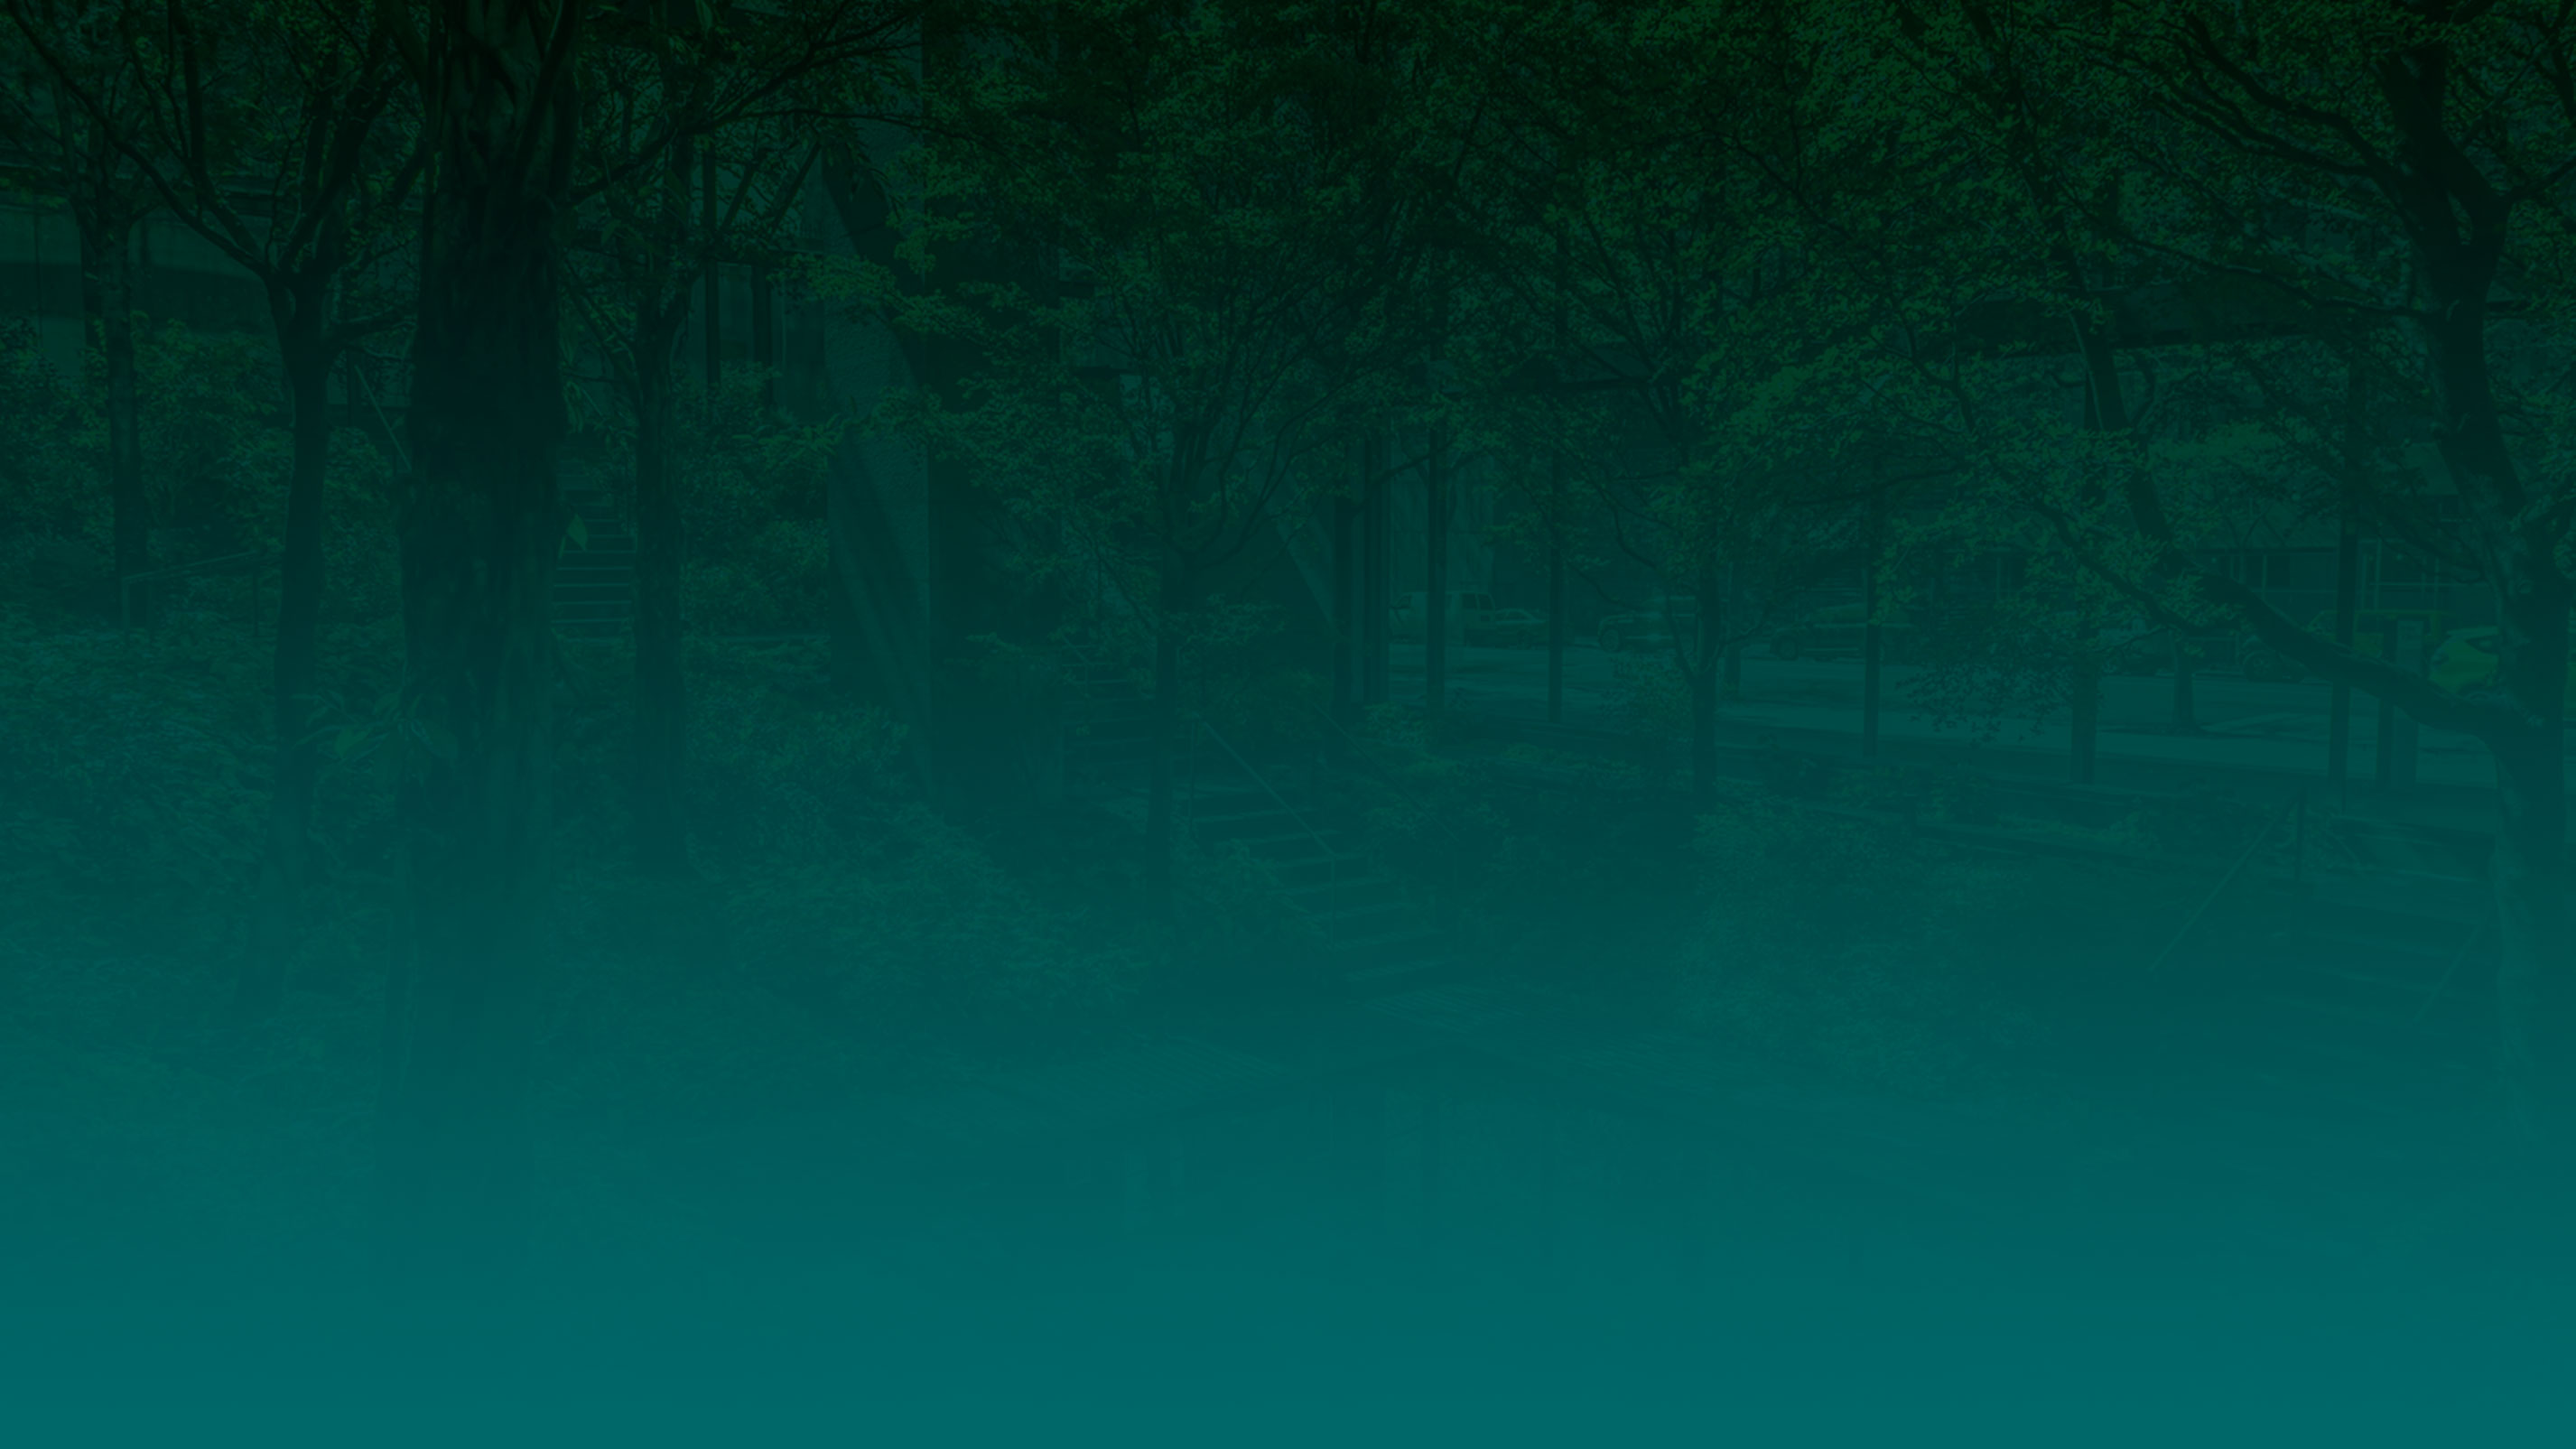
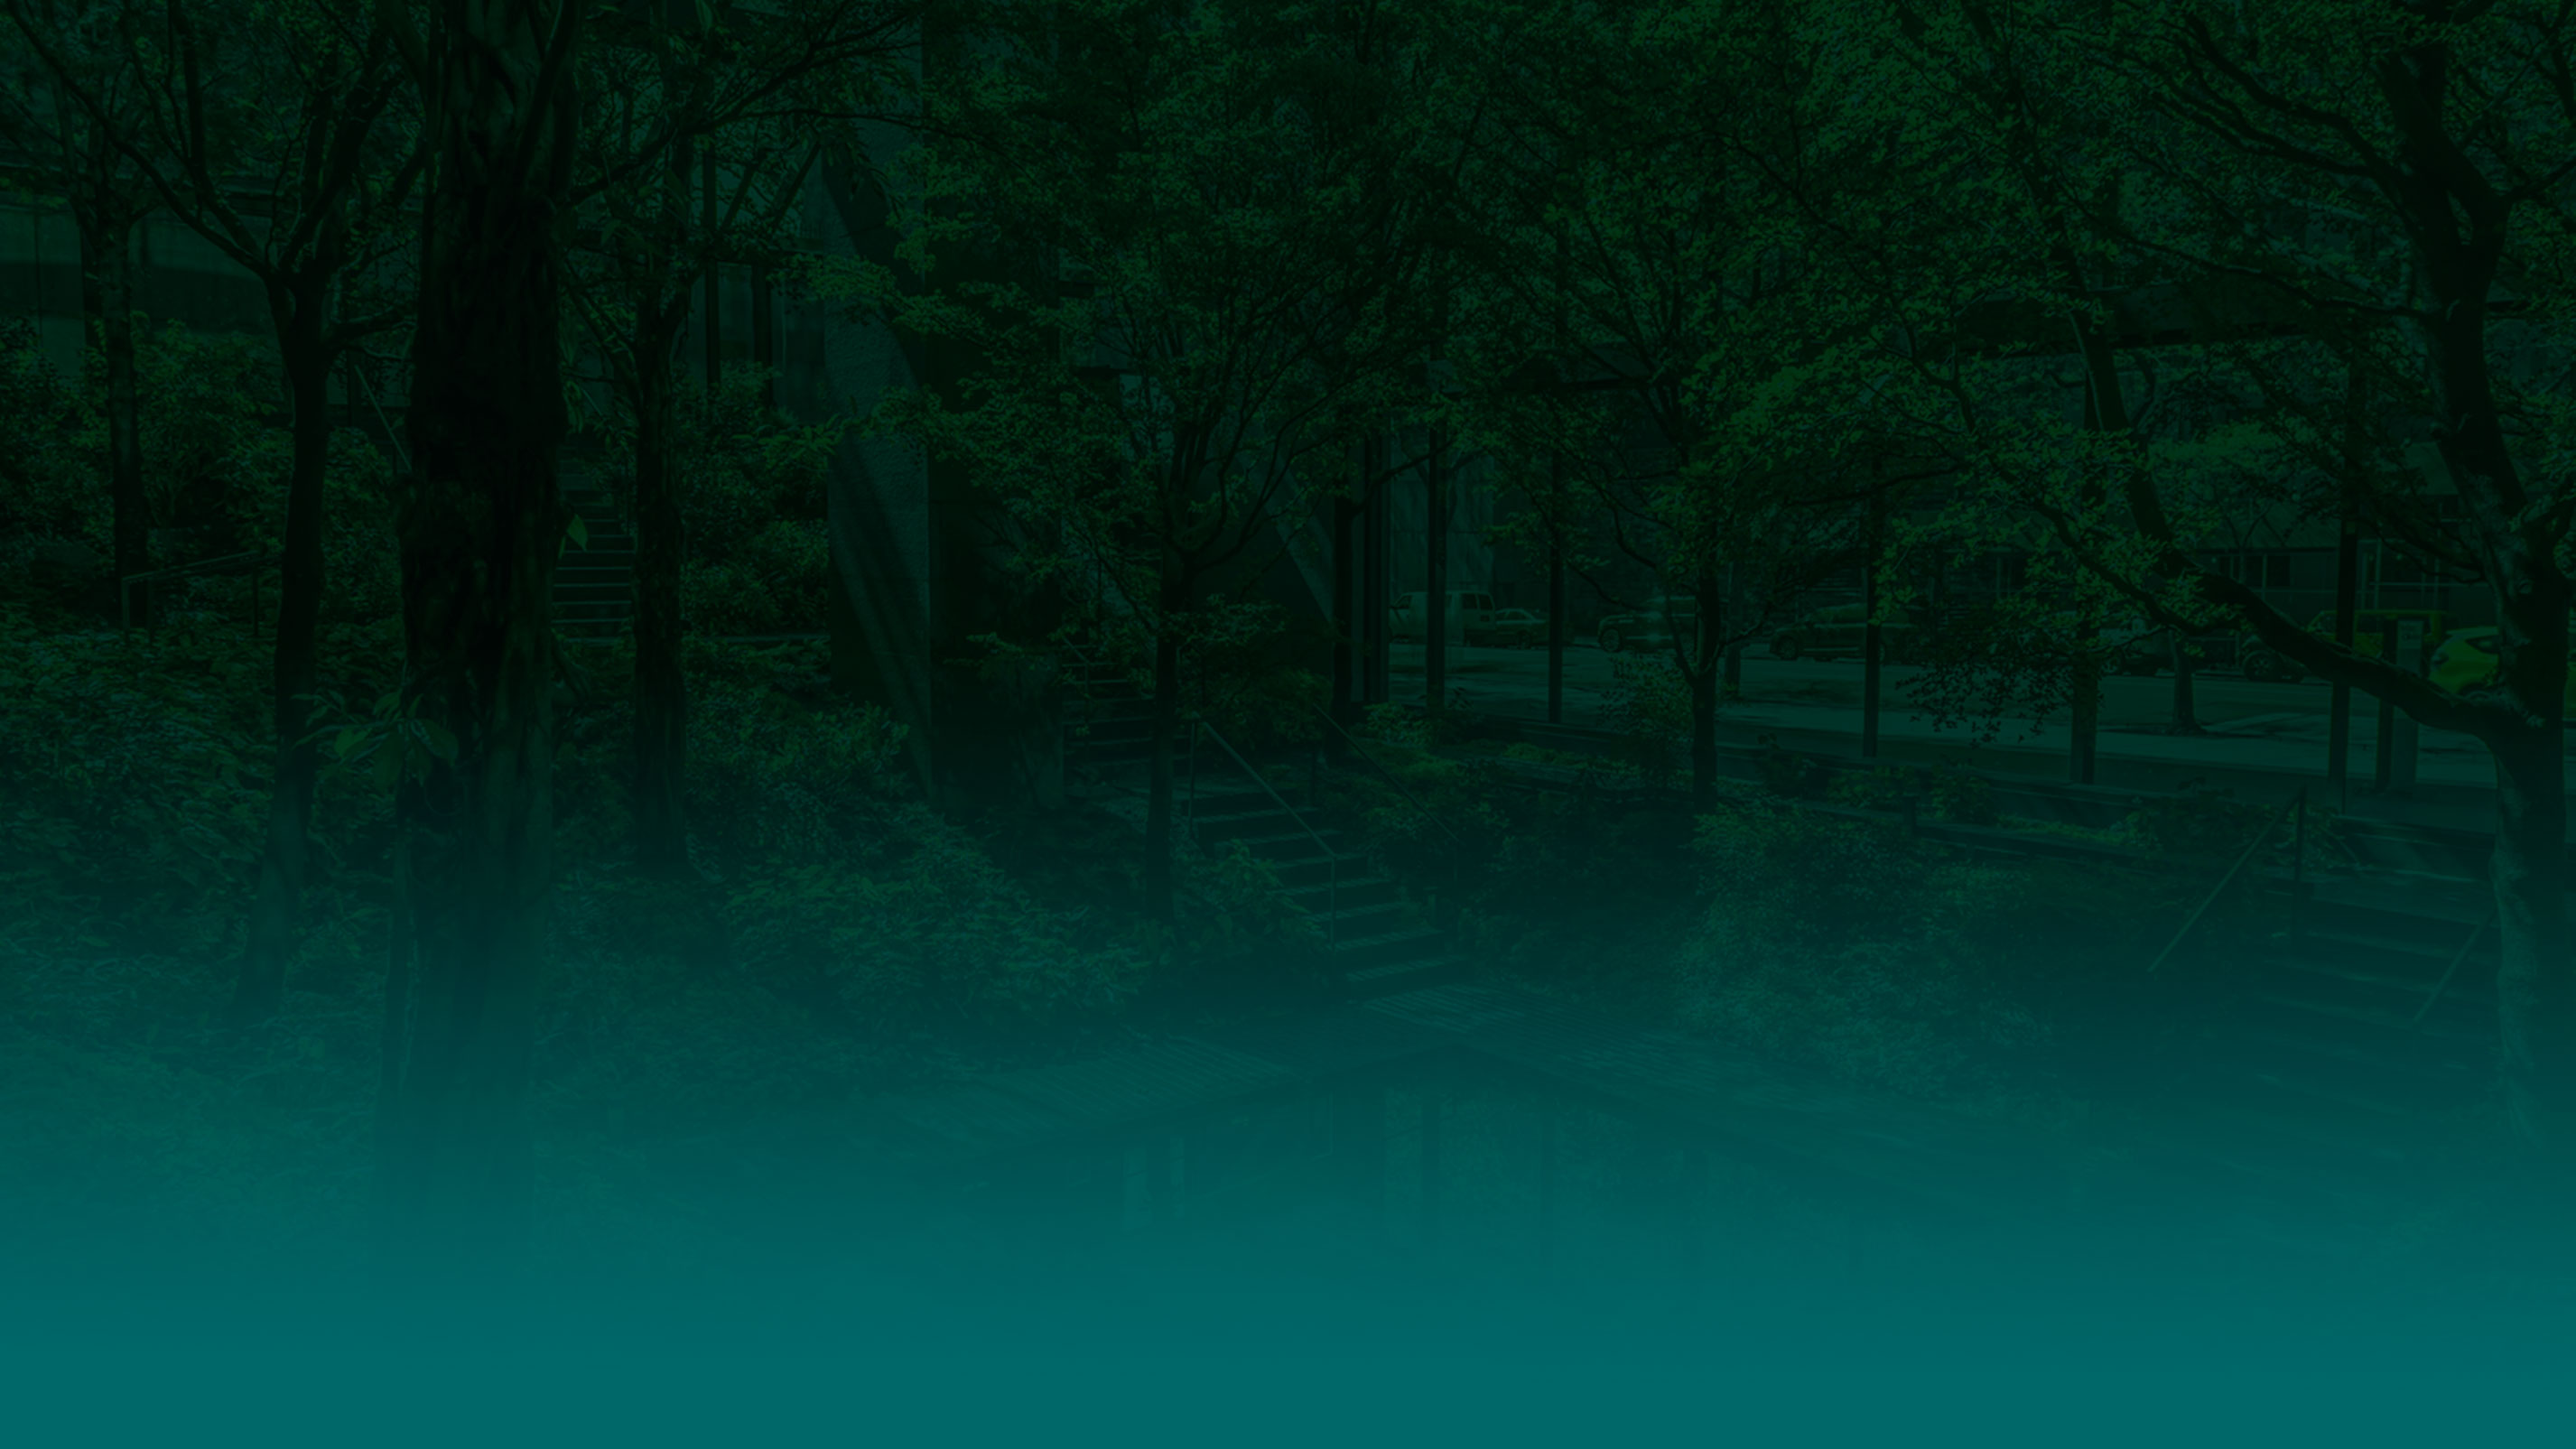
base

diff --git a/templates/lending/index.html b/templates/lending/index.html
@@ -4,15 +4,16 @@
 <head>
     <meta charset="UTF-8">
     <meta name="viewport" content="width=device-width, initial-scale=1">
-    <!-- Bootstrap CSS -->
     <link href="{% static 'css/bootstrap.css' %}" rel="stylesheet">
-    <!-- Custom Styles -->
     <link rel="stylesheet" type="text/css" href="{% static 'css/style.css' %}">
 </head>
 <body>
+
 <nav class="navbar navbar-expand-lg navbar-custom">
   <div class="container-fluid">
-    <a class="navbar-brand" href="#">BrandName</a>
+    <a class="navbar-brand" href="#">
+      <img src="{% static 'img/LogoLogoOGOGO.png' %}" alt="Logo" class="brand-logo">
+    </a>
     <button class="navbar-toggler" type="button" data-bs-toggle="collapse" data-bs-target="#navbarNavAltMarkup" aria-controls="navbarNavAltMarkup" aria-expanded="false" aria-label="Toggle navigation">
       <span class="navbar-toggler-icon"></span>
     </button>
@@ -96,7 +97,7 @@
     </div>
 </section>
 
-<section class="full-screen-container-2">
+<section class="full-screen-container-3">
     <div class="container">
         <div class="row">
             <div class="col-12">
@@ -121,6 +122,36 @@
                 </div>
             {% endfor %}
         </div>
+    </div>
+</section>
+
+
+<section class="full-screen-container-3">
+    <div class="container">
+        <div class="row">
+            <div class="col-12">
+                <h1 class="star">Карта тута</h1>
+            </div>
+        </div>
+        <div class="row">
+            {% csrf_token %}
+            {% for object in objects %}
+                <div class="col-6 col-md-3 mb-4">
+                    <div class="card h-100">
+                        <!--<img src="{{ object.image.url }}" class="card-img-top" alt="{{ object.title }}">
+                        <div class="card-body">
+                            <div class="form-check">
+                                <input class="form-check-input" type="checkbox" value="" id="{{ object.id }}">
+                                <label class="form-check-label" for="checkbox{{ object.id }}">
+                                    {{ object.title }}
+                                </label>
+                            </div>
+                        </div>
+                    </div> -->
+                </div>
+            {% endfor %}
+        </div>
+    </div>
     </div>
 </section>
 

diff --git a/templates/pages/home_stub.html b/templates/pages/home_stub.html
@@ -1,10 +1,37 @@
 {% extends 'base.html' %}
+{% load static %}
+
 {% block content %}
-<h1>Home stub</h1><hr>
-    <h2> username: {{ user.username }}</h2>
-    {% if user.is_authenticated %}
-        <a href="{% url 'logout' %}">logout</a>
-    {%  else %}
-       <a href="{% url 'login' %}">login</a> | <a href="{% url 'register' %}">register</a>
-    {% endif %}
+<nav class="navbar navbar-expand-lg navbar-custom">
+  <div class="container-fluid">
+    <a class="navbar-brand" href="#">
+      <img src="{% static 'img/LogoLogoOGOGO.png' %}" alt="Logo" class="brand-logo">
+    </a>
+    <button class="navbar-toggler" type="button" data-bs-toggle="collapse" data-bs-target="#navbarNavAltMarkup" aria-controls="navbarNavAltMarkup" aria-expanded="false" aria-label="Toggle navigation">
+      <span class="navbar-toggler-icon"></span>
+    </button>
+    <div class="collapse navbar-collapse" id="navbarNavAltMarkup">
+      <div class="navbar-nav ms-auto">
+        <a class="nav-link active" aria-current="page" href="#">Home</a>
+        <a class="nav-link" href="#">Features</a>
+        <a class="nav-link" href="#">Pricing</a>
+        <a class="nav-link" href="#">About</a>
+      </div>
+    </div>
+  </div>
+</nav>
+
+    <section class="full-screen-container-4">
+    <div class="container">
+        <div class="row">
+        </div>
+        <div class="row flex-grow-1">
+
+        </div>
+        <div class="row">
+
+        </div>
+    </div>
+</section>
 {% endblock %}
+

diff --git a/static/css/style.css b/static/css/style.css
@@ -25,6 +25,11 @@ html {
     width: 100%;
 }
 
+.brand-logo {
+    height: 2.3rem;
+    margin-right: 10px;
+}
+
 .navbar-brand, .nav-link {
     color: #fff;
 }
@@ -43,7 +48,7 @@ html {
     align-items: center;
     justify-content: center;
     text-align: center;
-    background-image: url('../img/bg_1.jpg');
+    background-image: url('../img/back_one.jpg');
     background-size: cover;
     background-position: center;
     background-repeat: no-repeat;
@@ -55,7 +60,32 @@ html {
     align-items: center;
     justify-content: center;
     text-align: center;
-    background-image: url('../img/bg_2.jpg');
+    background-image: url('../img/back_two.jpg');
+    background-size: cover;
+    background-position: center;
+    background-repeat: no-repeat;
+}
+
+.full-screen-container-3 {
+    min-height: 100vh;
+    display: flex;
+    align-items: center;
+    justify-content: center;
+    text-align: center;
+    background-image: url('../img/bg_3.jpg');
+    background-size: cover;
+    background-position: center;
+    background-repeat: no-repeat;
+}
+
+
+.full-screen-container-4 {
+    min-height: 100vh;
+    display: flex;
+    align-items: center;
+    justify-content: center;
+    text-align: center;
+    background-image: url('../img/bg_homeStub.jpg');
     background-size: cover;
     background-position: center;
     background-repeat: no-repeat;
@@ -404,3 +434,4 @@ html {
 .card-img-top {
     margin-top: -2px;
 }
+

diff --git a/templates/base.html b/templates/base.html
@@ -1,19 +1,20 @@
 <!DOCTYPE html>
 {% load static %}
 {% load bootstrap5 %}
-<html lang="en">
+<html lang="ru">
 <head>
+
+    <link href="{% static 'css/bootstrap.css' %}" rel="stylesheet">
+    <link rel="stylesheet" type="text/css" href="{% static 'css/style.css' %}">
+    <meta name="viewport" content="width=device-width, initial-scale=1">
     <meta charset="UTF-8">
     <title>{{ title }}</title>
-    {% bootstrap_css %}
+{#    {% bootstrap_css %}#}
     {% bootstrap_javascript %}
 </head>
 <body>
-<div class="container">
-
 {% block content %}
 
 {% endblock %}
-</div>
 </body>
 </html>
